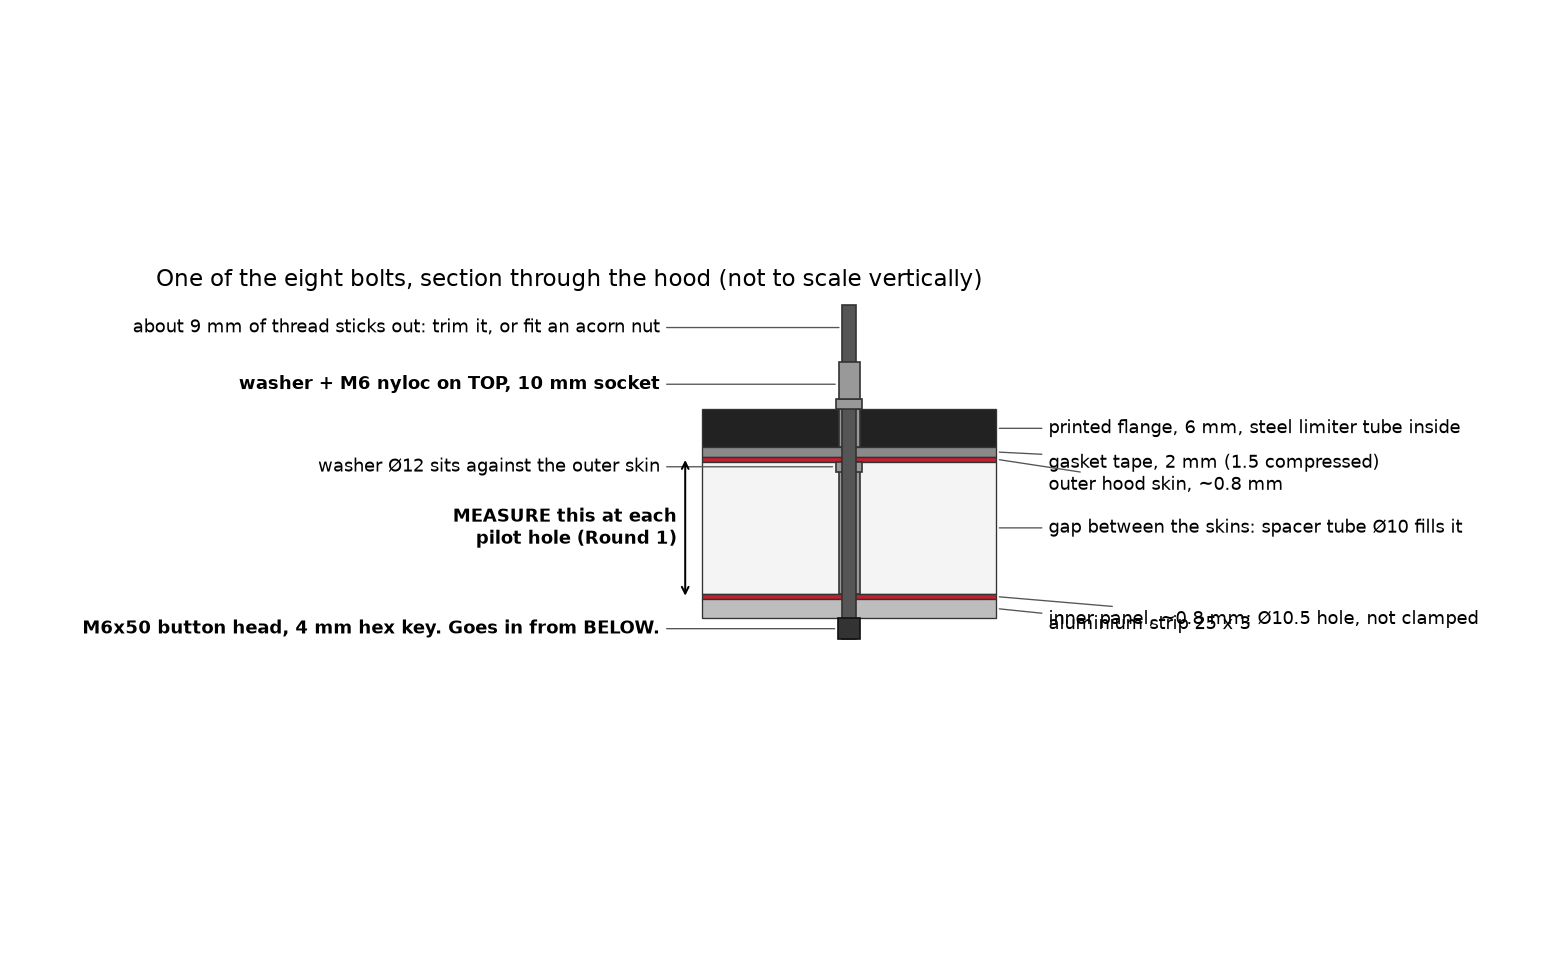
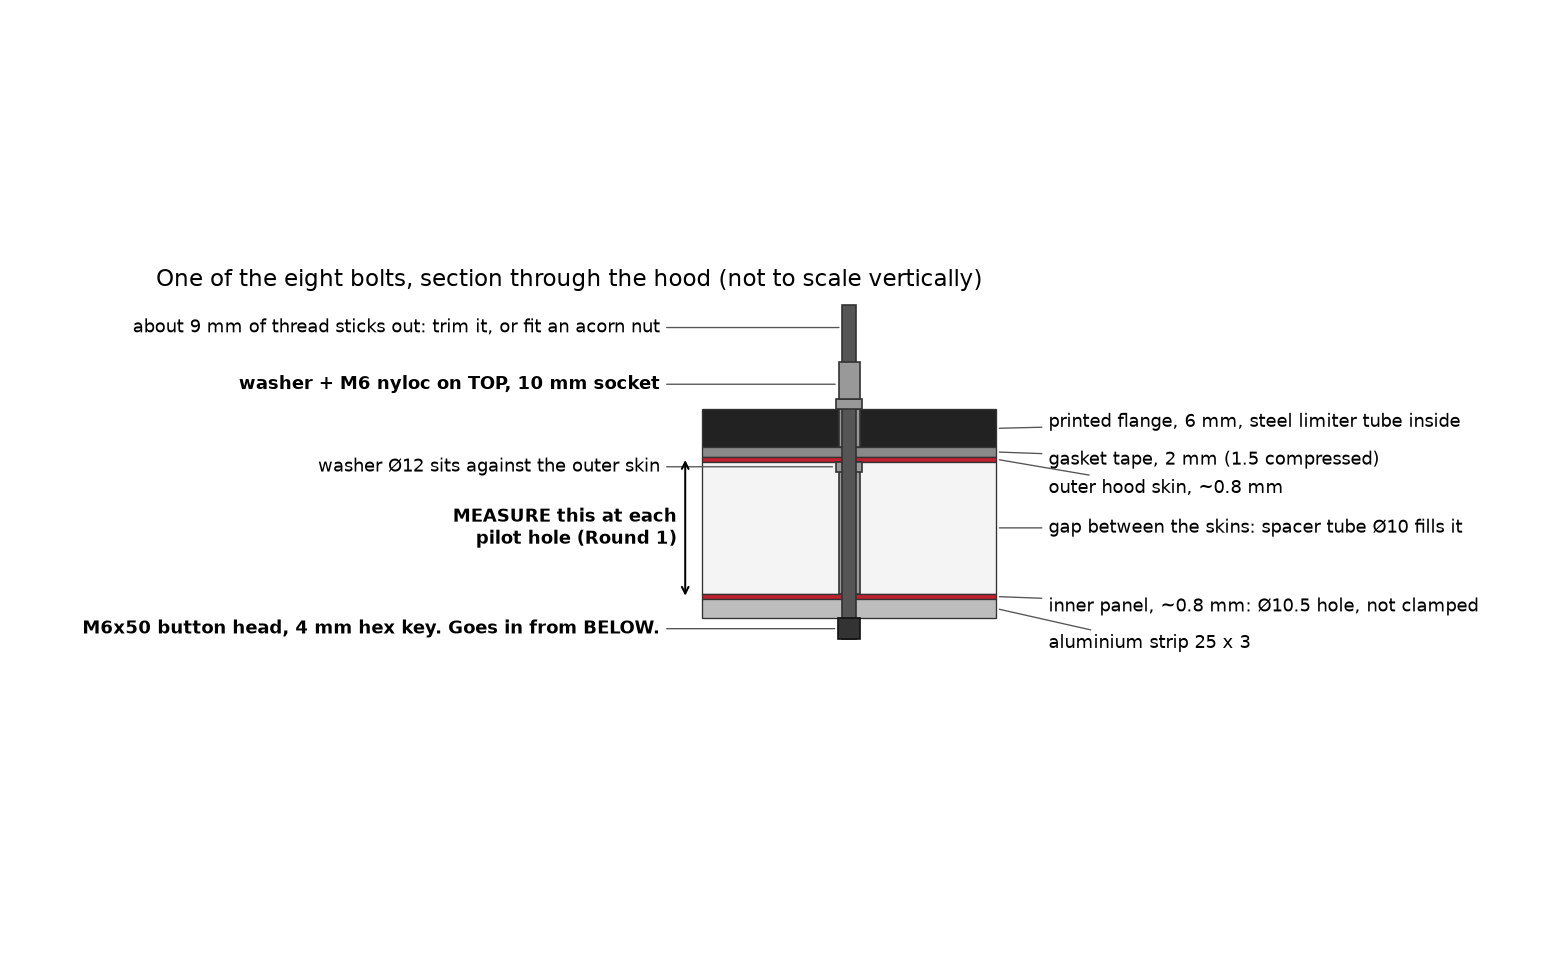
Bolt stack figure: separate the inner panel and strip labels

Changed region(s): [[0.6462, 0.4375, 0.9538, 0.5312], [0.6462, 0.625, 0.9538, 0.6875]]

diff --git a/cad/make_figures.py b/cad/make_figures.py
@@ -66,7 +66,7 @@ def rect(x0, z0, w, h, **kw): ax.add_patch(Rectangle((x0, z0 * K), w, h * K, **k
 layers = [("printed flange, 6 mm, steel limiter tube inside", gk, gk + 6, "#222"), ("gasket tape, 2 mm (1.5 compressed)", 0, gk, "#8a8a8a"), ("outer hood skin, ~0.8 mm", -skin, 0, "#c21f2f"),
           ("gap between the skins: spacer tube Ø10 fills it", -skin - gap, -skin, "#f4f4f4"), ("inner panel, ~0.8 mm: Ø10.5 hole, not clamped", -skin - gap - inner, -skin - gap, "#c21f2f"), ("aluminium strip 25 x 3", -skin - gap - inner - strip, -skin - gap - inner, "#bdbdbd")]
 for (name, z0, z1, c) in layers: rect(-70, z0, 140, z1 - z0, fc=c, ec="#333", lw=0.8)
-ylab = [gk + 3, gk - 2.5, -4.5, -skin - gap / 2, -skin - gap - 4, -skin - gap - inner - strip - 1]
+ylab = [gk + 4, gk - 2, -5, -skin - gap / 2, -skin - gap - 2, -skin - gap - inner - strip - 4]
 for (name, z0, z1, c), yl in zip(layers, ylab):
     ax.annotate(name, xy=(70, (z0 + z1) / 2 * K), xytext=(95, yl * K), fontsize=11, va="center", arrowprops=dict(arrowstyle="-", lw=0.8, color="#555"))
 rect(-5, -skin - gap, 10, gap, fc="#999", ec="#333")                                        # spacer tube
